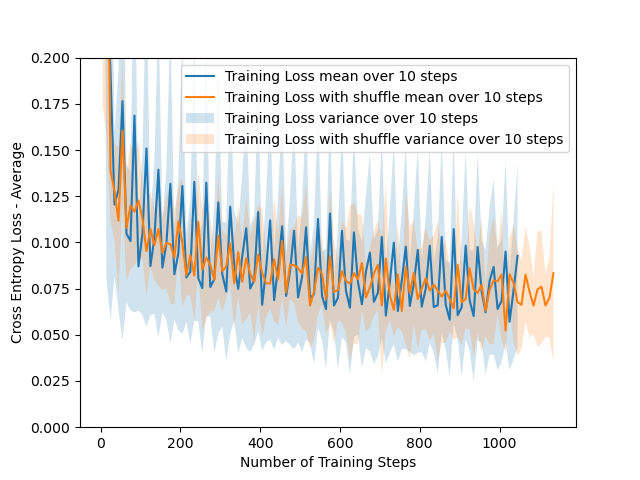
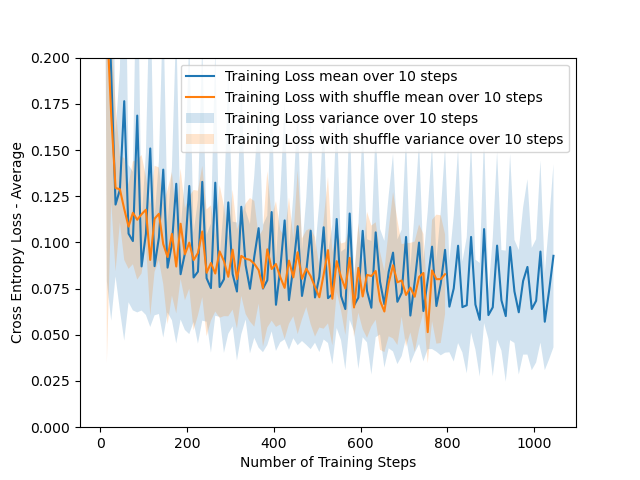
update

diff --git a/assignment1/trainer.py b/assignment1/trainer.py
@@ -103,7 +103,7 @@ class BaseTrainer:
                     best_arr.append(best_this_epoch)
                     # TODO (Task 2d): Implement early stopping here.
                     # You can access the validation loss in val_history["loss"]
-                    if best not in best_arr[-10:]:
+                    if (best not in best_arr[-10:] and len(best_arr)>=10):
                         stop = True
                     
                 global_step += 1

diff --git a/assignment1/task3.py b/assignment1/task3.py
@@ -86,7 +86,7 @@ if __name__ == "__main__":
     # ANY PARTS OF THE CODE BELOW THIS CAN BE CHANGED.
     
      # Intialize model
-    model = SoftmaxModel(l2_reg_lambda = 1.0)
+    model = SoftmaxModel(l2_reg_lambda = 0)
     # Train model
     trainer = SoftmaxTrainer(
         model, learning_rate, batch_size, shuffle_dataset,
